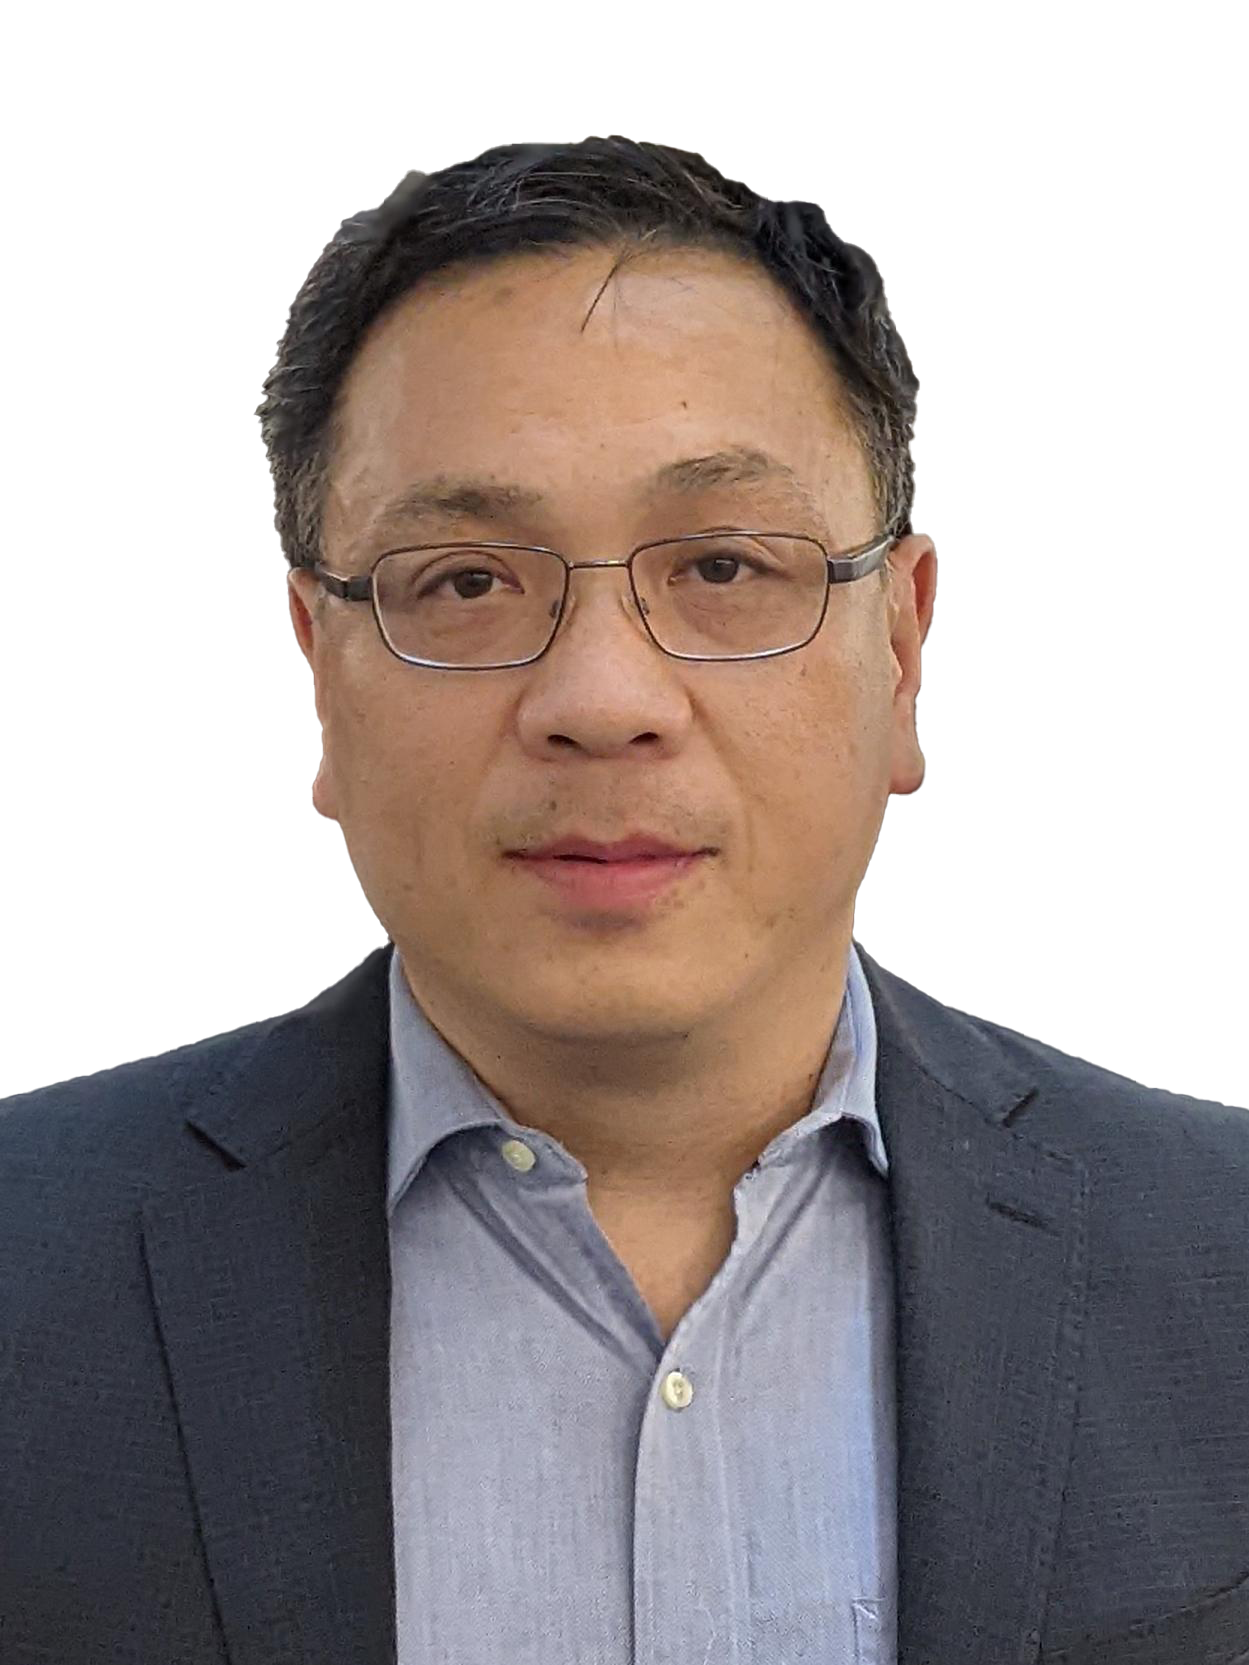
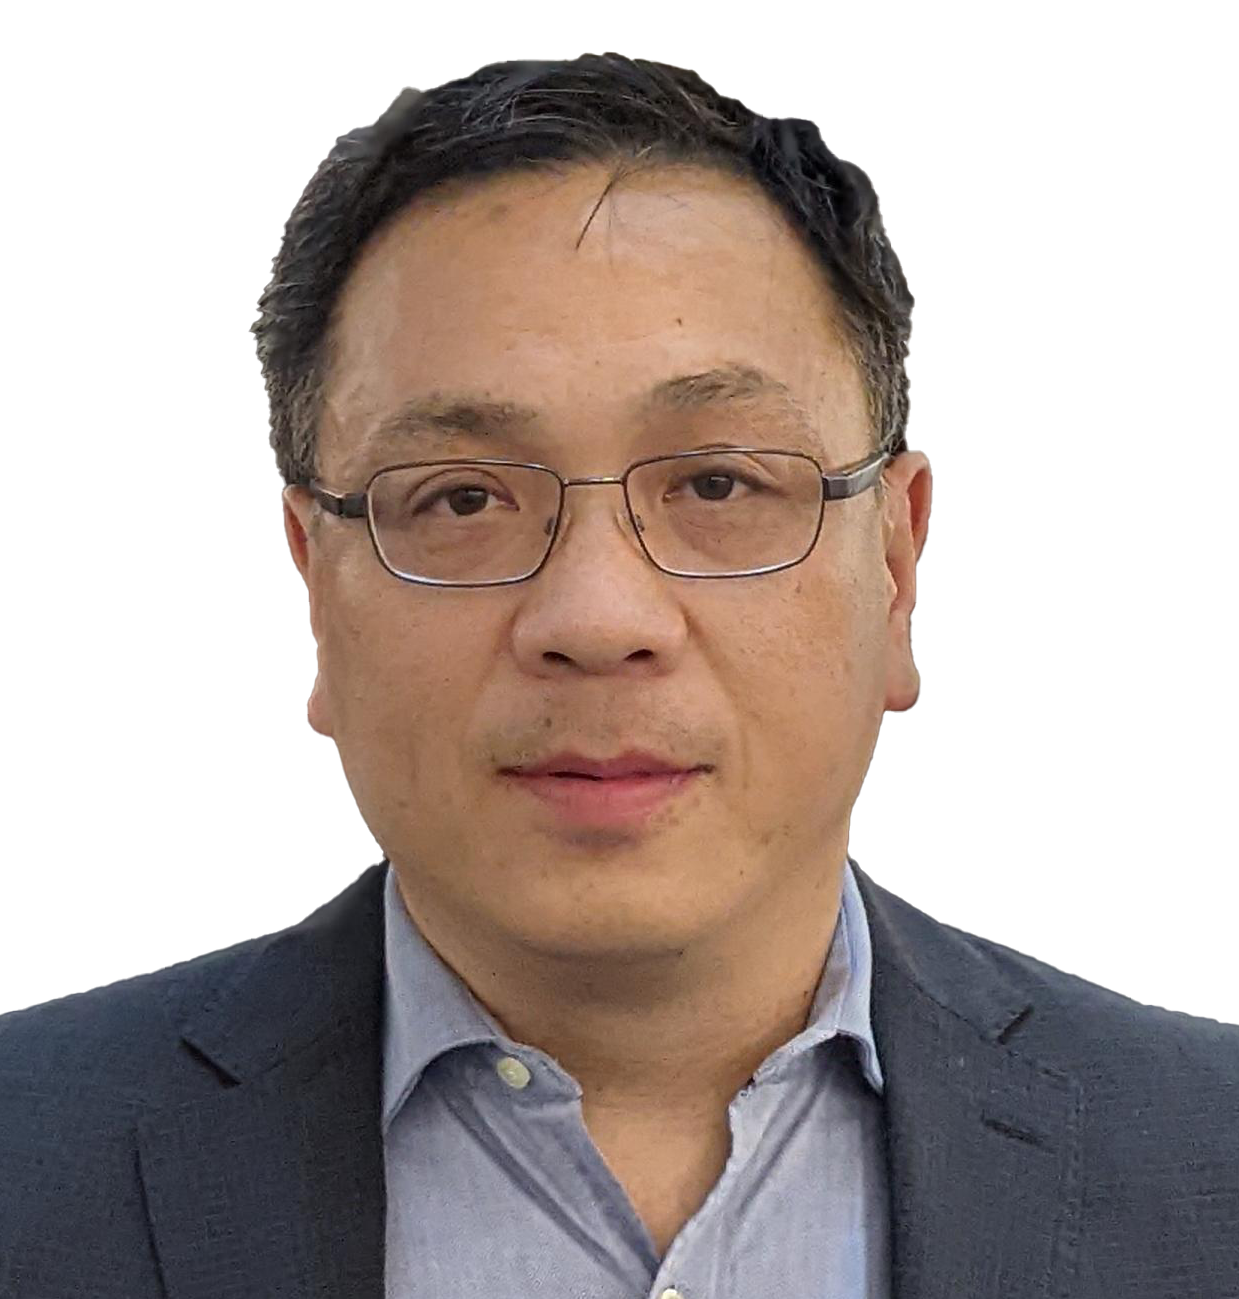
modify layout

diff --git a/index.html b/index.html
@@ -460,7 +460,7 @@
                         <div class="team-member">
                             <img src="https://songdj.github.io/author/dongjin-song/avatar_hu6e41e5dc7954b00808dcbdf5dd84c037_547998_270x270_fill_lanczos_center_2.png" class="img-responsive img-circle" alt="" width="200" height="300">
                             <h4><a class="text-primary" href="https://songdj.github.io/">Dongjin Song</a></h4>
-                            <p class="text-muted">Assistant Professor</br> University of Connecticut</p>
+                            <p class="text-muted">Associate Professor</br>University of Connecticut</p>
                         </div>
                     </div>
 
@@ -484,8 +484,7 @@
                       <div class="team-member">
                         <div class="team-member">
                             <img src="./img/siru_zhong.jpg" class="img-responsive img-circle" alt="" width="200" height="300">
-                            <h4><a class="text-primary" href="https://siruzhong.github.io/">Siru Zhong
-                                </a></h4>
+                            <h4><a class="text-primary" href="https://siruzhong.github.io/">Siru Zhong</a></h4>
                             <p class="text-muted">Ph.D.</br>Hong Kong University of Science and Technology (GZ)</p>
                         </div>
                       </div>
